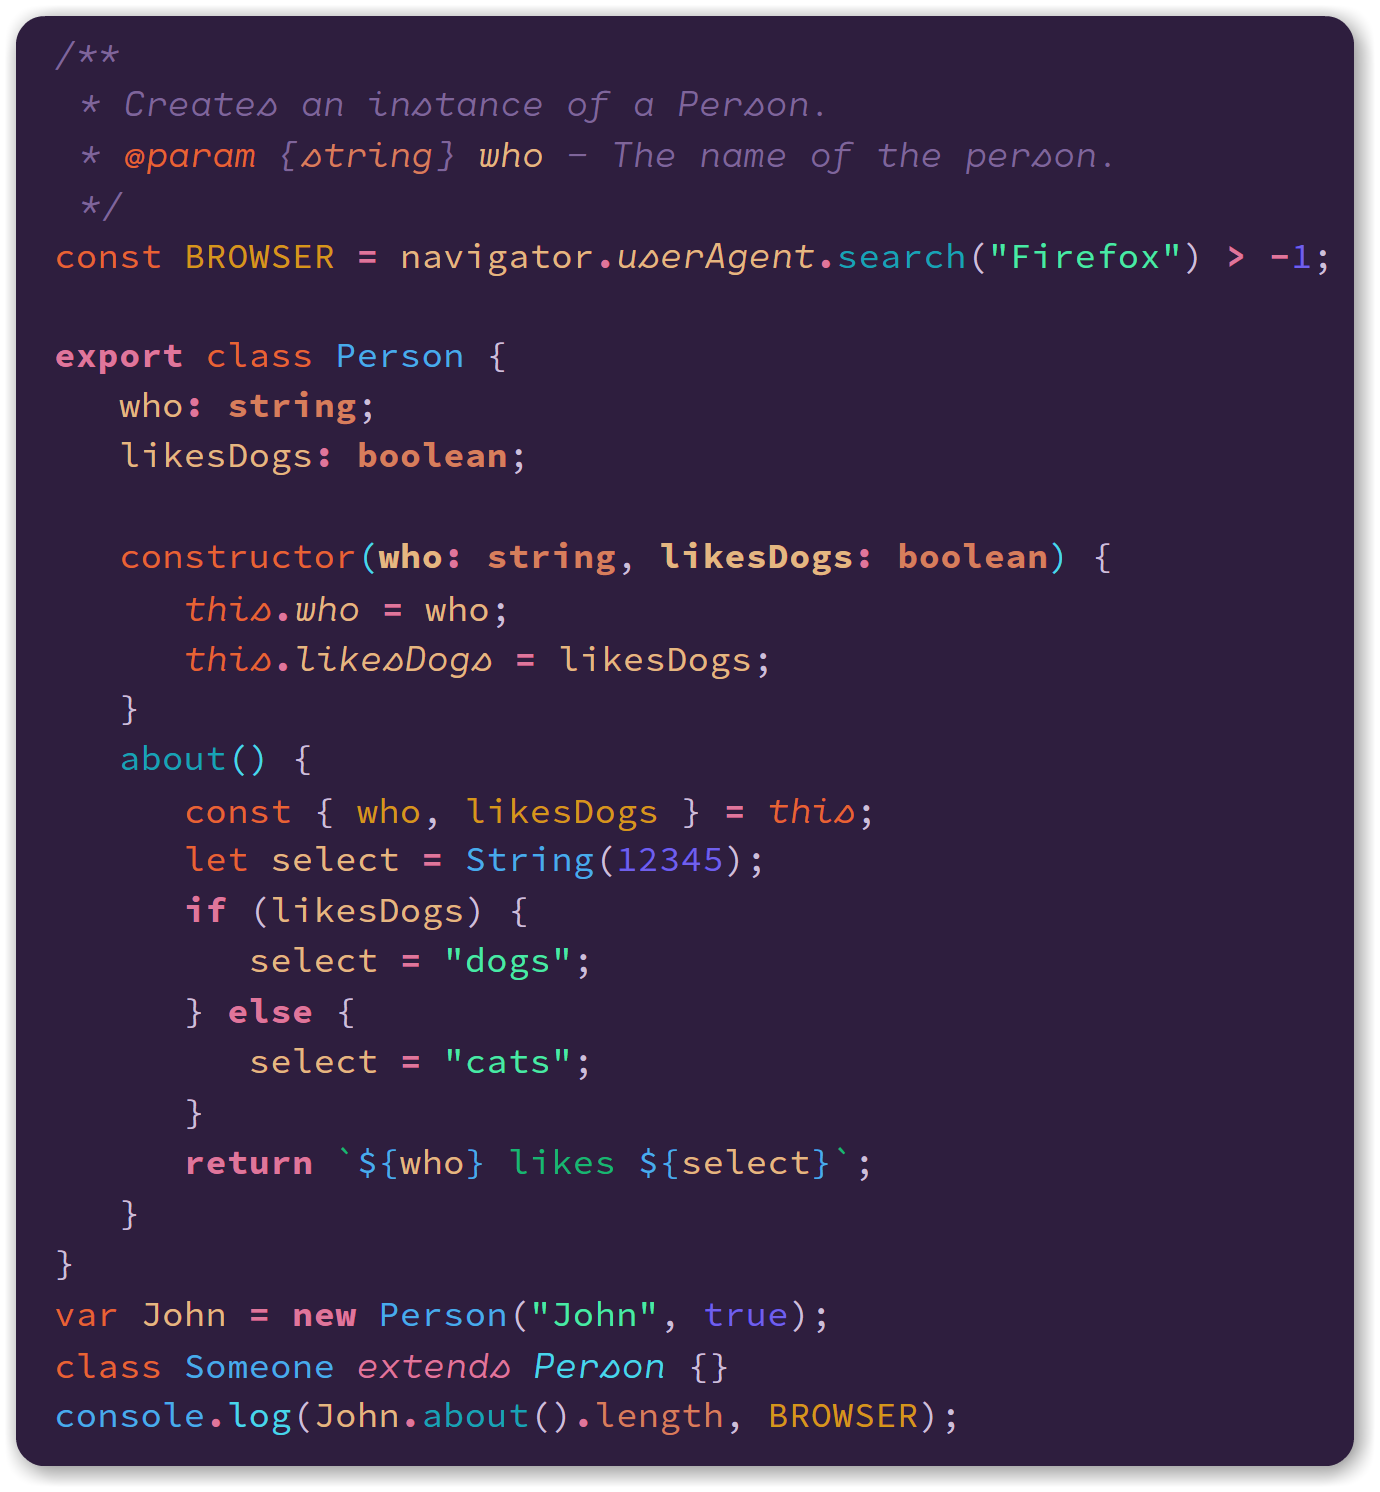
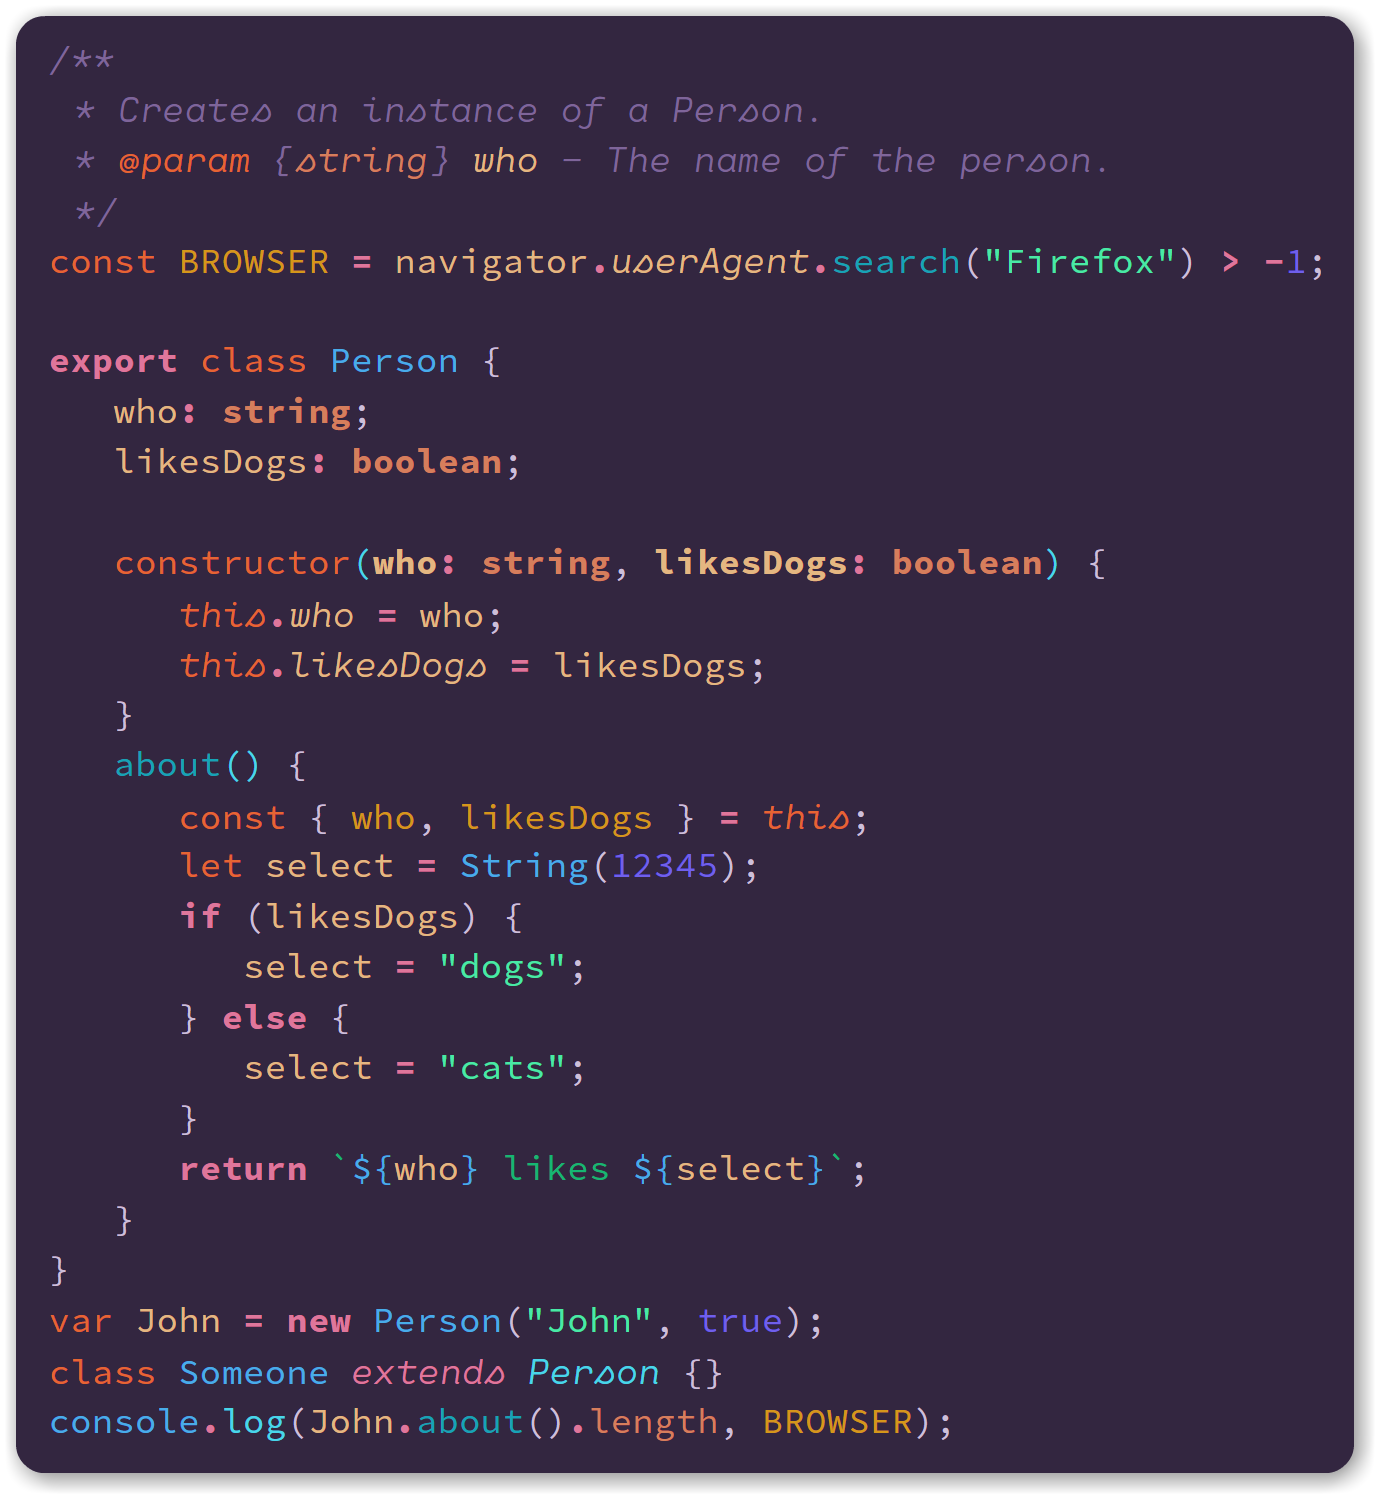
8.3.0

diff --git a/README.md b/README.md
@@ -51,7 +51,7 @@ Noctis comes in nine versions. Seven are dark and two are light.
 
 ## Noctis Viola
 
-![Noctis Viola Screenshot](https://github.com/liviuschera/noctis/raw/master/images/noctisViola.png)
+![Noctis Viola Screenshot](images/noctisViola.png)
 
 </div>
 

diff --git a/CHANGELOG.md b/CHANGELOG.md
@@ -1,5 +1,12 @@
 # Change Log
 
+## **8.3.0**
+
+- _Noctis Viola_ &rarr; tweaked
+  - 2% increased luminosity
+  - 10% decreased saturation
+- updated README
+
 ## **8.2.0**
 
 - **Shell Script** &rarr; added support
